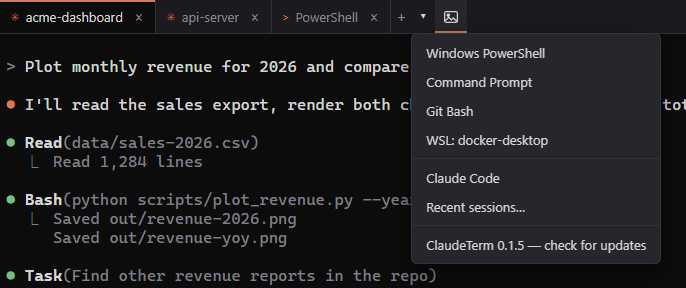
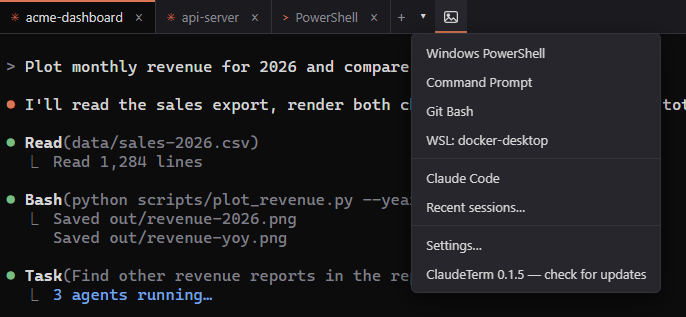
docs: settings window in the README, with a screenshot from default settings
Claude-Session: https://claude.ai/code/session_01H7pKcv8GdDHMwp5yt5Lqan

diff --git a/tests/screenshots/readme.shots.ts b/tests/screenshots/readme.shots.ts
@@ -261,3 +261,20 @@ test('README screenshots', async () => {
 
   await app.close()
 })
+
+test('settings window screenshot', async () => {
+  // default settings in a fresh data folder: nothing from this machine's own settings
+  const { app, page } = await launchApp()
+  await page.waitForFunction(() => window.__ct!.activeTabId() !== null)
+  const [win] = await Promise.all([app.waitForEvent('window'), page.evaluate(() => window.ct.openSettingsWindow())])
+  await win.waitForSelector('#settings [data-key="font.size"]')
+  const cdp = await win.context().newCDPSession(win)
+  await expect(win.locator('[data-key="font.family"]')).toHaveValue('Cascadia Mono, Consolas, monospace')
+  // the whole form, without the scrollbar a 720 px tall window has
+  const height = await win.evaluate(() => document.documentElement.scrollHeight)
+  await cdp.send('Emulation.setDeviceMetricsOverride', { width: 640, height, deviceScaleFactor: 2, mobile: false })
+  await expect.poll(() => win.evaluate(() => document.documentElement.scrollHeight <= window.innerHeight)).toBe(true)
+  await win.mouse.move(630, 10)
+  await win.screenshot({ path: join(OUT, 'settings.png') })
+  await app.close()
+})

diff --git a/README.md b/README.md
@@ -59,7 +59,7 @@ The limits are shown for Claude Pro and Max subscriptions, where Claude Code rep
 
 ### 🔔 Know when Claude is waiting for you
 
-When Claude asks for a permission, asks you a question or finishes its turn while you are looking elsewhere, ClaudeTerm plays the Windows default sound, flashes its taskbar button and marks the tab. Nothing happens while that tab is in front of you. The sound can be turned off or replaced with your own `.wav` in the settings.
+When Claude asks for a permission, asks you a question or finishes its turn while you are looking elsewhere, ClaudeTerm plays the Windows default sound, flashes its taskbar button and marks the tab. Nothing happens while that tab is in front of you. In **Settings** each of these cases — and a terminal bell from any program — has its own sound, taskbar flash and tab highlight switches, and the sound can be your own `.wav`.
 
 ### 🗂 A real terminal, with tabs
 
@@ -121,7 +121,11 @@ Right-click a tab → **Restart session** restarts Claude Code in the same tab a
 
 ## Settings
 
-Settings live in `%APPDATA%\ClaudeTerm\settings.json` — press `Ctrl+,` to open it. Changes apply as soon as you save the file.
+Press `Ctrl+,` (or **▾ → Settings…**) to open the settings window: notifications, font, theme, shells, Claude Code, images and updates. Changes apply at once.
+
+![Settings window](docs/images/settings.png)
+
+Everything is stored in `%APPDATA%\ClaudeTerm\settings.json`. Profiles, image types, ignored folders, a custom theme and the image panel size are set only there — the window's **Open settings.json** button opens it, and changes to the file apply as soon as you save it. When the window saves a change, it rewrites the file as plain JSON with two-space indentation.
 
 ```jsonc
 {
@@ -143,10 +147,13 @@ Settings live in `%APPDATA%\ClaudeTerm\settings.json` — press `Ctrl+,` to open
     "maxDepth": 8
   },
   "imagePanel": { "autoOpen": true, "width": 320, "maxItems": 200 },
-  "attention": {                   // when Claude waits for you in a tab you are not looking at
-    "sound": "system",             // "system", "none", or the full path to a .wav file
-    "flash": true                  // flash the taskbar button (a terminal bell, BEL, from any program flashes it regardless)
-  },
+  "notifications": {               // when a tab you are not looking at needs you
+    "sound": "system",             // "system" or the full path to a .wav file
+    "permission": { "sound": true,  "flash": true, "tab": true },   // Claude asks for a permission
+    "question":   { "sound": true,  "flash": true, "tab": true },   // Claude asks a question
+    "done":       { "sound": true,  "flash": true, "tab": true },   // Claude finished its turn
+    "bell":       { "sound": false, "flash": true, "tab": true }    // a terminal bell (BEL) from any program
+  },                               // flash: the taskbar button; tab: highlight the tab (a dot for the bell)
   "autoUpdate": true               // check GitHub for new versions in the background
 }
 ```
